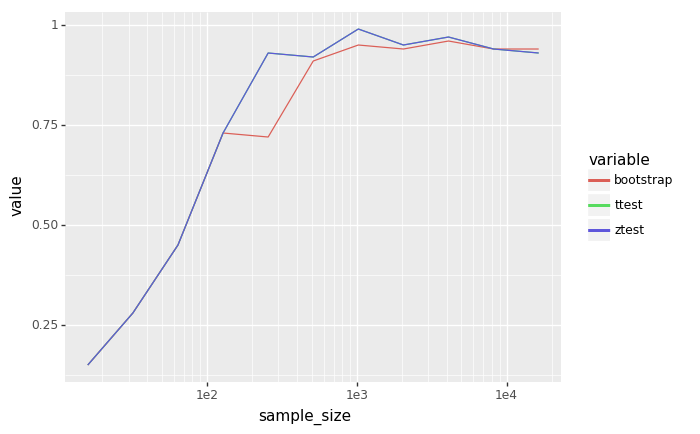
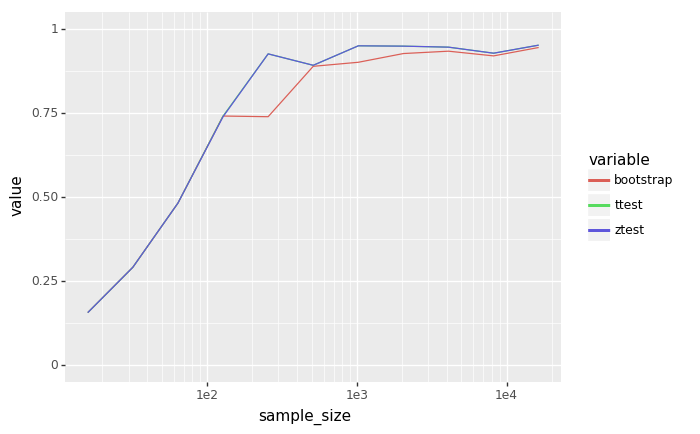
Increase meta-iterations for type I error estimate

diff --git a/small_n/main.py b/small_n/main.py
@@ -1,7 +1,7 @@
 import pandas as pd
 import numpy as np
 from functools import partial
-from plotnine import ggplot, aes, geom_line
+from plotnine import ggplot, aes, geom_line, scale_x_log10, ylim
 import plotnine as pn
 
 from simulations import simulate as sim
@@ -22,7 +22,7 @@ def eval_ci_over_sample_size(population):
                 mean,
                 population,
                 x,
-                meta_iter=100
+                meta_iter=1000
             )))
 
         return(out)
@@ -48,7 +48,8 @@ def plot_ci_eval(df):
     return(
         ggplot(molten, aes(x='sample_size', y='value', color='variable'))
         + geom_line()
-        + pn.scales.scale_x_log10()
+        + scale_x_log10()
+        + ylim(0, 1)
     )
 
 

diff --git a/simulations/simulate.py b/simulations/simulate.py
@@ -73,7 +73,7 @@ def ci_contains(ci, point):
     )
 
 
-def eval_ci_method(ci_method, stat_fn, population, sample_size, meta_iter=100):
+def eval_ci_method(ci_method, stat_fn, population, sample_size, meta_iter=200):
     '''Test the effectiveness of a CI generation method
 
     To test the effectiveness of a CI generation method (e.g. bootstrapping)
